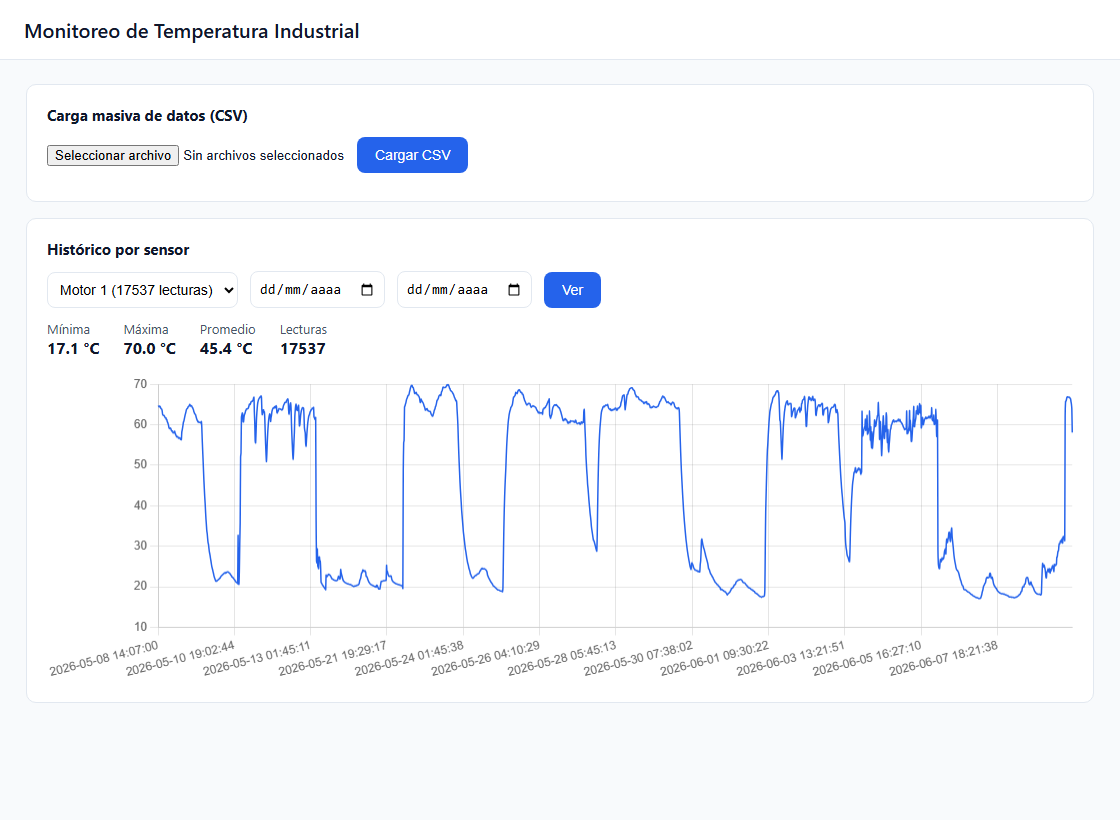
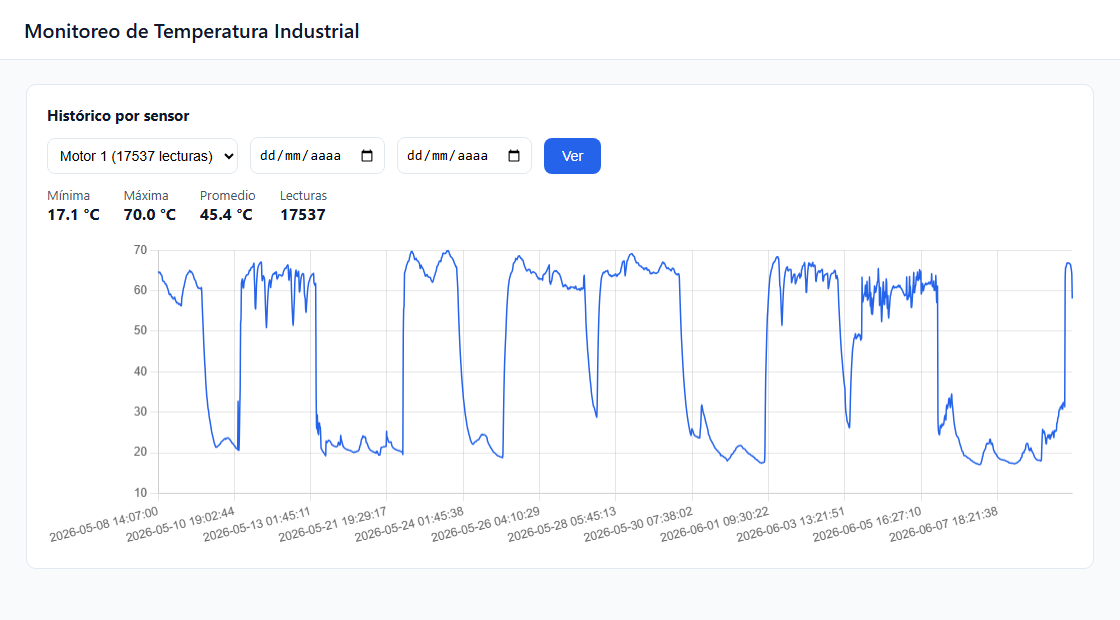
Tabla de estadisticas por sensor, quitar placeholders, dashboard sin CSV y recuperacion en articulo
Tesis: tabla de estadisticas de temperatura por sensor (min/max/prom/desv);
eliminada la figura de casillas reservadas (evidencias pendientes) que hacia
ver el documento como anteproyecto.
Articulo: dashboard recapturado sin la tarjeta de carga CSV (modo kiosk);
agregada recuperacion (2.279 s tras reinicio) y rango de temperatura; quitado
el nombre de maquina 'Twin' (branding).

diff --git a/docker/templates/index.html b/docker/templates/index.html
@@ -170,6 +170,11 @@ $('btnVer').onclick = async () => {
   }
 };
 
+// ?kiosk oculta la tarjeta de carga CSV (para capturas limpias del histórico)
+if (new URLSearchParams(location.search).has('kiosk')) {
+  document.querySelector('.tarjeta').style.display = 'none';
+}
+
 // Al abrir, muestra el primer sensor automáticamente (mejor que un gráfico vacío)
 cargarSensores().then(() => { if ($('sensor').value) $('btnVer').click(); });
 </script>

diff --git a/SmartSense_IEEE.tex b/SmartSense_IEEE.tex
@@ -34,10 +34,6 @@
     \label{fig:#1}
   \end{figure}}
 
-\newcommand{\imgslot}[1]{%
-  \fbox{\parbox[c][2.35cm][c]{0.93\linewidth}{%
-    \centering\small\textit{#1}}}}
-
 \title{SmartSense Monitoring: Sistema Inalámbrico para el Monitoreo y Análisis Histórico de Temperatura en Equipos Industriales}
 
 \author{
@@ -319,7 +315,26 @@ RSSI y SNR experimentales & No implementados \\
 
 \subsection{Despliegue de 32 días y disponibilidad}
 
-Se analizó un registro real de la planta con \num{51338} muestras provenientes de tres nodos, con un intervalo de muestreo mediano de \SI{121}{\second}. La Fig.~\ref{fig:val-serie} presenta la serie completa de temperatura de uno de los nodos durante el despliegue, en la que se aprecia el máximo de \SI{70.0}{\celsius} asociado al caso del succionador.
+Se analizó un registro real de la planta con \num{51338} muestras provenientes de tres nodos, con un intervalo de muestreo mediano de \SI{121}{\second}. La Tabla~\ref{tab:estadisticas} resume la temperatura registrada por cada sensor durante el despliegue. La Fig.~\ref{fig:val-serie} presenta la serie completa de temperatura de uno de los nodos, en la que se aprecia el máximo de \SI{70.0}{\celsius} asociado al caso del succionador.
+
+\begin{table}[!t]
+\caption{Estadísticas de temperatura por sensor durante el despliegue}
+\label{tab:estadisticas}
+\centering
+\footnotesize
+\begin{tabularx}{\columnwidth}{@{}Xccccc@{}}
+\toprule
+\textbf{Nodo} & \textbf{Muestras} & \textbf{Mín.} & \textbf{Máx.} & \textbf{Prom.} & \textbf{Desv.} \\
+ & & (\si{\celsius}) & (\si{\celsius}) & (\si{\celsius}) & (\si{\celsius}) \\
+\midrule
+Nodo A & \num{17537} & 17,1 & 70,0 & 45,4 & 20,1 \\
+Nodo B & \num{16487} & 15,3 & 62,4 & 39,5 & 14,5 \\
+Nodo C & \num{17314} & 16,4 & 65,0 & 44,7 & 16,7 \\
+\bottomrule
+\end{tabularx}
+\vskip 0.15cm
+{\footnotesize Nodos A y C: del 8 de mayo al 9 de junio de 2026 (32 días). Nodo B: del 10 de mayo al 20 de julio de 2026 (72 días). La desviación estándar alta refleja los ciclos de marcha y parada de las máquinas.}
+\end{table}
 
 La Fig.~\ref{fig:val-cobertura} muestra la cobertura de datos de los tres nodos. Las interrupciones no se distribuyen de forma independiente entre nodos, sino que ocurren de manera \emph{simultánea} en los tres, con el mismo instante de inicio. Este comportamiento indica que las interrupciones no correspondieron a fallas del enlace LoRa —que afectarían a un nodo a la vez— sino a periodos en los que el gateway permaneció apagado durante paradas de planta y de energía.
 
@@ -405,51 +420,6 @@ La Fig.~\ref{fig:evidencias-reales} reúne las evidencias de la instalación y l
 \end{minipage}
 \caption{Evidencias de la validación en planta: (a) nodo PT100 con módulo LoRa instalado en el motor del succionador; (b) medición de referencia con el termómetro infrarrojo Fluke 62 MAX; (c) lectura simultánea en el dashboard local.}
 \label{fig:evidencias-reales}
-\end{figure*}
-
-\section{Evidencias complementarias pendientes}
-
-La Fig.~\ref{fig:evidencias-pendientes} reserva los espacios de las evidencias que se incorporarán en la versión final. Cada fotografía deberá acompañarse con fecha, equipo, instrumento y una descripción breve del procedimiento realizado.
-
-\begin{figure*}[!t]
-\centering
-\begin{minipage}[t]{0.24\textwidth}\centering
-  \imgslot{Nodo PT100 instalado en el succionador de la Twin}\\[-1mm]
-  {\footnotesize(a) Instalación del nodo}
-\end{minipage}\hfill
-\begin{minipage}[t]{0.24\textwidth}\centering
-  \imgslot{Medición simultánea con pistola Fluke}\\[-1mm]
-  {\footnotesize(b) Referencia Fluke}
-\end{minipage}\hfill
-\begin{minipage}[t]{0.24\textwidth}\centering
-  \imgslot{Captura o fotografía de la cámara termográfica}\\[-1mm]
-  {\footnotesize(c) Cámara termográfica}
-\end{minipage}\hfill
-\begin{minipage}[t]{0.24\textwidth}\centering
-  \imgslot{Interfaz del Advantech WISE-2410 usada en planta}\\[-1mm]
-  {\footnotesize(d) WISE-2410}
-\end{minipage}
-
-\vspace{2mm}
-
-\begin{minipage}[t]{0.24\textwidth}\centering
-  \imgslot{Tres nodos construidos y gateway con pantalla}\\[-1mm]
-  {\footnotesize(e) Prototipos físicos}
-\end{minipage}\hfill
-\begin{minipage}[t]{0.24\textwidth}\centering
-  \imgslot{Inspección o mantenimiento de los rodamientos}\\[-1mm]
-  {\footnotesize(f) Evidencia mecánica}
-\end{minipage}\hfill
-\begin{minipage}[t]{0.24\textwidth}\centering
-  \imgslot{Históricos de los otros puntos de medición}\\[-1mm]
-  {\footnotesize(g) Otros sensores}
-\end{minipage}\hfill
-\begin{minipage}[t]{0.24\textwidth}\centering
-  \imgslot{Configuración de offset y umbrales de alarma}\\[-1mm]
-  {\footnotesize(h) Configuración}
-\end{minipage}
-\caption{Espacios reservados para las evidencias experimentales y de implementación que se incorporarán en la versión final.}
-\label{fig:evidencias-pendientes}
 \end{figure*}
 
 \section{Discusión}

diff --git a/hardwarex/SmartSense_HardwareX.tex b/hardwarex/SmartSense_HardwareX.tex
@@ -183,7 +183,7 @@ The following steps describe the construction of one sensor node and the gateway
 
 \begin{figure}[h]\centering
 \includegraphics[width=\linewidth]{dashboard-neutro.png}
-\caption{Local web dashboard: per-sensor temperature history over the deployment, with minimum, maximum and mean statistics and bulk CSV import. Shown here running on the open-source software replica with generic sensor labels.}
+\caption{Local web dashboard: per-sensor temperature history over the deployment, with minimum, maximum and mean statistics. Shown here running on the open-source software replica with generic sensor labels.}
 \label{fig:dashboard}
 \end{figure}
 
@@ -213,7 +213,9 @@ Node C & 17{,}314 & 75.1\% & 97.8\% & 81 & 180 \\\hline
 
 \textbf{Temperature agreement.} Paired readings against a Fluke 62 MAX infrared thermometer on the same surface point agreed within $\pm$0.4~$^{\circ}$C (mean difference $\approx$0.1~$^{\circ}$C). Because the per-node offset was tuned using the same Fluke, and the Fluke's own accuracy is $\pm$1.5~$^{\circ}$C, this demonstrates that the compensation reproduces the reference but is not an independent accuracy validation; a rigorous $\leq$1~$^{\circ}$C characterization would require a calibrated contact reference (thermocouple or reference RTD).
 
-\textbf{Use case.} The continuous history captured a surface-temperature rise on a suction-fan motor of the ``Twin'' machine, reaching a maximum of 70.0~$^\circ$C (Fig.~\ref{fig:serie}). The rising segments corresponded to periods when the machine stopped while the fan motor kept spinning unloaded; the pattern was later related to a bearing anomaly. This demonstrates the practical value of continuous logging over spot measurements.
+\textbf{Use case.} The continuous history captured a surface-temperature rise on a suction-fan motor, reaching a maximum of 70.0~$^\circ$C (Fig.~\ref{fig:serie}). The rising segments corresponded to periods when the machine stopped while the fan motor kept spinning unloaded; the pattern was later related to a bearing anomaly. This demonstrates the practical value of continuous logging over spot measurements.
+
+\textbf{Recovery and temperature range.} After a node reset, the node boots, samples and transmits its first frame in about 2.279~s (measured from the firmware), well within one sampling cycle and far below any practical requirement. Across the three nodes, the recorded surface temperature spanned 15.3--70.0~$^{\circ}$C, with per-node mean values of 39.5--45.4~$^{\circ}$C.
 
 \begin{figure}[h]\centering
 \includegraphics[width=0.9\linewidth]{val-serie-evento.pdf}
